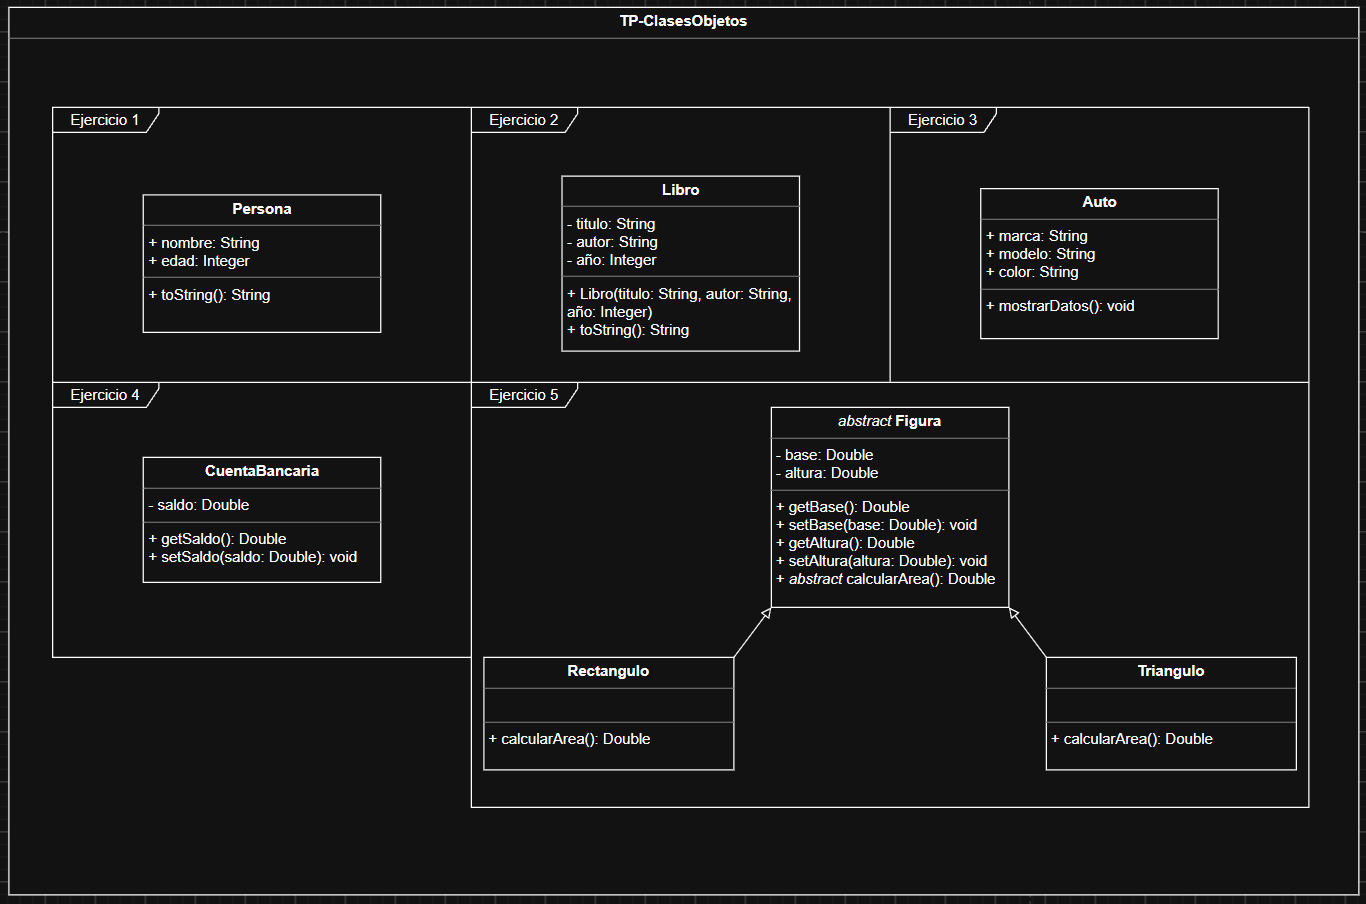
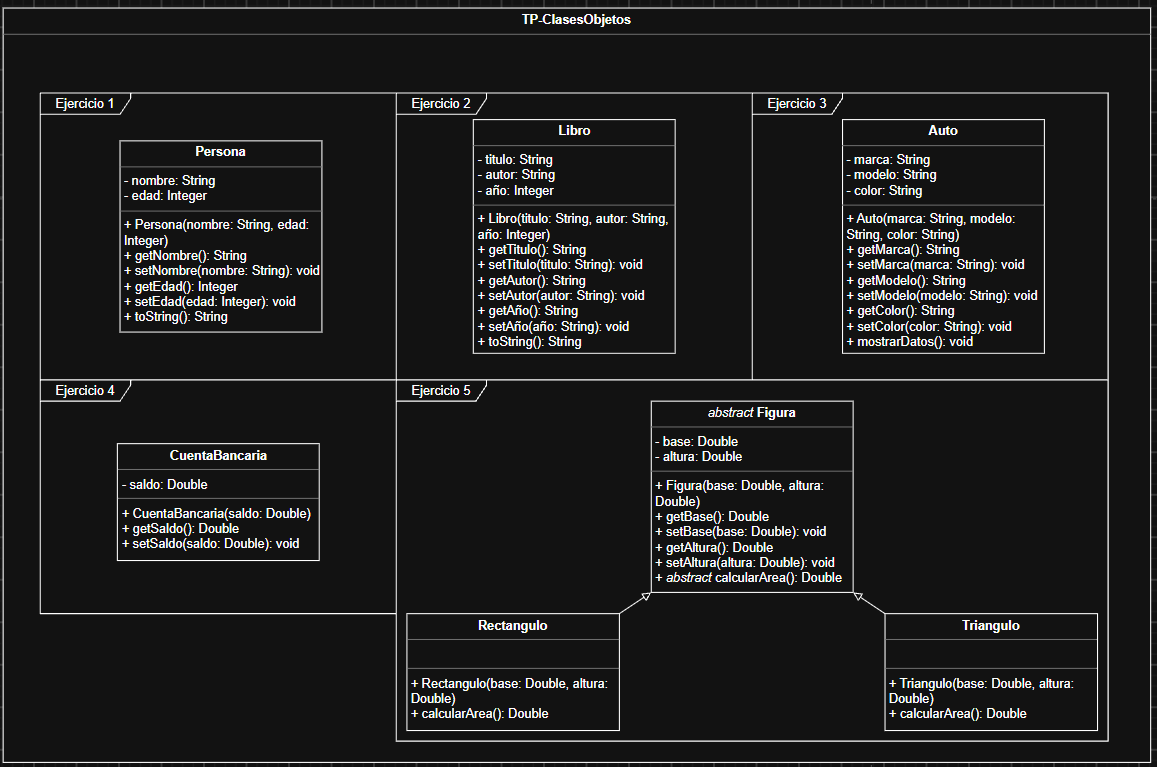
Modificaciones parciales en TP-Clases Objetos y cambios de UML

Changed region(s): [[0.0, 0.0, 0.9957, 1.0], [0.9334, 0.4798, 0.9646, 0.5098], [0.9334, 0.1199, 0.9646, 0.1499]]

diff --git a/TPClasesObjetos/src/auto/Auto.java b/TPClasesObjetos/src/auto/Auto.java
@@ -1,9 +1,40 @@
 package auto;
 
 public class Auto {
-	public String marca;
-	public String modelo;
-	public String color;
+	private String marca;
+	private String modelo;
+	private String color;
+	
+	public Auto(String marca, String modelo, String color) {
+		this.marca = marca;
+		this.modelo = modelo;
+		this.color = color;
+	}
+
+	
+	public String getMarca() {
+		return marca;
+	}
+	public void setMarca(String marca) {
+		this.marca = marca;
+	}
+
+
+	public String getModelo() {
+		return modelo;
+	}
+	public void setModelo(String modelo) {
+		this.modelo = modelo;
+	}
+
+
+	public String getColor() {
+		return color;
+	}
+	public void setColor(String color) {
+		this.color = color;
+	}
+
 
 	public void mostrarDatos() {
 		System.out.println("Tengo un " + marca + " modelo " + modelo + " de color " + color);

diff --git a/TPClasesObjetos/src/auto/Main.java b/TPClasesObjetos/src/auto/Main.java
@@ -3,29 +3,17 @@ package auto;
 public class Main {
 
 	public static void main(String[] args) {
-		Auto auto1 = new Auto();
-		auto1.marca = "Toyota";
-		auto1.modelo = "Corolla";
-		auto1.color = "Blanco";
-		
+		Auto auto1 = new Auto("Toyota", "Corolla", "Blanco");		
 		auto1.mostrarDatos();
 		
 		
 		
-		Auto auto2 = new Auto();
-		auto2.marca = "Ford";
-		auto2.modelo = "Mustang";
-		auto2.color = "Rojo";
-		
+		Auto auto2 = new Auto("Ford", "Mustang", "Rojo");
 		auto2.mostrarDatos();
 		
 		
-		
-		Auto auto3 = new Auto();
-		auto3.marca = "Volkswagen";
-		auto3.modelo = "Golf";
-		auto3.color = "Gris";
-		
+	
+		Auto auto3 = new Auto("Volkswagen", "Golf", "Gris");		
 		auto3.mostrarDatos();
 
 	}

diff --git a/TPClasesObjetos/src/persona/Persona.java b/TPClasesObjetos/src/persona/Persona.java
@@ -1,8 +1,30 @@
 package persona;
 
 public class Persona {
-	public String nombre;
-	public Integer edad;
+	private String nombre;
+	private Integer edad;
+	
+	public Persona(String nombre, Integer edad) {
+		this.nombre = nombre;
+		this.edad = edad;
+	}
+
+	
+	public String getNombre() {
+		return nombre;
+	}
+	public void setNombre(String nombre) {
+		this.nombre = nombre;
+	}
+
+
+	public Integer getEdad() {
+		return edad;
+	}
+	public void setEdad(Integer edad) {
+		this.edad = edad;
+	}
+
 
 	@Override
 	public String toString() {

diff --git a/TPClasesObjetos/src/libro/Libro.java b/TPClasesObjetos/src/libro/Libro.java
@@ -12,6 +12,34 @@ public class Libro {
 		this.año = año;
 	}
 
+	
+
+	public String getTitulo() {
+		return titulo;
+	}
+	public void setTitulo(String titulo) {
+		this.titulo = titulo;
+	}
+
+
+
+	public String getAutor() {
+		return autor;
+	}
+	public void setAutor(String autor) {
+		this.autor = autor;
+	}
+
+
+
+	public Integer getAño() {
+		return año;
+	}
+	public void setAño(Integer año) {
+		this.año = año;
+	}
+
+
 
 	@Override
 	public String toString() {

diff --git a/TPClasesObjetos/src/persona/Main.java b/TPClasesObjetos/src/persona/Main.java
@@ -3,16 +3,11 @@ package persona;
 public class Main {
 
 	public static void main(String[] args) {
-		Persona persona1 = new Persona();
-		persona1.nombre = "Maria";
-		persona1.edad = 54;
-		
+		Persona persona1 = new Persona("Maria", 54);
 		System.out.println(persona1);
 		
 		
-		Persona persona2 = new Persona();
-		persona2.nombre = "Marcos";
-		persona2.edad = 32;
+		Persona persona2 = new Persona("Marcos", 32);
 		System.out.println(persona2);
 
 	}

diff --git a/TPClasesObjetos/src/formas/Main.java b/TPClasesObjetos/src/formas/Main.java
@@ -3,7 +3,7 @@ package formas;
 public class Main {
 
 	public static void main(String[] args) {
-		Rectangulo r1 = new Rectangulo();
+		Rectangulo r1 = new Rectangulo(150.40, 55.0);
 		r1.setBase(180.50);
 		r1.setAltura(50.00);
 		
@@ -11,7 +11,7 @@ public class Main {
 		
 		
 		
-		Triangulo tr1 = new Triangulo();
+		Triangulo tr1 = new Triangulo(130.40, 43.22);
 		tr1.setBase(149.50);
 		tr1.setAltura(55.40);
 		

diff --git a/TPClasesObjetos/src/cuentaBancaria/Main.java b/TPClasesObjetos/src/cuentaBancaria/Main.java
@@ -3,7 +3,7 @@ package cuentaBancaria;
 public class Main {
 
 	public static void main(String[] args) {
-		CuentaBancaria cb1 = new CuentaBancaria();
+		CuentaBancaria cb1 = new CuentaBancaria(500.50);
 		cb1.setSaldo(5000.00);
 		System.out.println(cb1.getSaldo());
 

diff --git a/TPClasesObjetos/src/formas/Figura.java b/TPClasesObjetos/src/formas/Figura.java
@@ -4,7 +4,10 @@ public abstract class Figura {
 	private Double base;
 	private Double altura;
 	
-	
+	public Figura(Double base, Double altura) {
+		this.base = base;
+		this.altura = altura;
+	}
 	public Double getBase() {
 		return base;
 	}

diff --git a/TPClasesObjetos/src/formas/Triangulo.java b/TPClasesObjetos/src/formas/Triangulo.java
@@ -1,6 +1,10 @@
 package formas;
 
 public class Triangulo extends Figura {
+	public Triangulo(Double base, Double altura) {
+		super(base, altura);
+	}
+
 	@Override
 	public Double calcularArea () {
 		return (getBase() * getAltura()) / 2;

diff --git a/TPClasesObjetos/src/formas/Rectangulo.java b/TPClasesObjetos/src/formas/Rectangulo.java
@@ -1,6 +1,10 @@
 package formas;
 
 public class Rectangulo extends Figura {
+	public Rectangulo(Double base, Double altura) {
+		super(base, altura);
+	}
+
 	@Override
 	public Double calcularArea () {
 		return getBase() * getAltura();

diff --git a/TPClasesObjetos/src/cuentaBancaria/CuentaBancaria.java b/TPClasesObjetos/src/cuentaBancaria/CuentaBancaria.java
@@ -3,6 +3,10 @@ package cuentaBancaria;
 public class CuentaBancaria {
 	private Double saldo;
 	
+	public CuentaBancaria(Double saldo) {
+		this.saldo = saldo;
+	}
+	
 	public Double getSaldo() {
 		return saldo;
 	}
